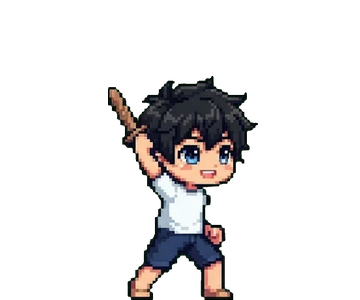
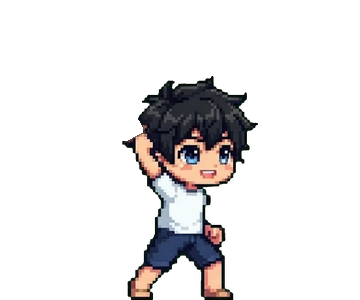
ภาพท่าตีร่างปกติใหม่: เอาไม้ที่ติดมือออก ให้เห็นแต่อาวุธที่สวมจริง
Claude-Session: https://claude.ai/code/session_01J9NCfWgs9eBq1qjdwjHxHL

Changed region(s): [[0.275, 0.27, 0.4278, 0.48]]

diff --git a/tools/remove_stick.py b/tools/remove_stick.py
@@ -1,0 +1,52 @@
+"""ลบไม้ที่ติดมือออกจากภาพท่าตีของร่างปกติ (ตอนนี้อาวุธวาดตามของที่สวม แทนไม้ในภาพ)
+ใช้ครั้งเดียวกับภาพเดิม: python3 tools/remove_stick.py (อ่าน/เขียน assets/art/frames ผลออกที่ /tmp/ns)
+"""
+import numpy as np, cv2
+from PIL import Image
+# เส้นไม้ (จุดเริ่มที่มือ -> ปลายไม้) ในพิกัดเฟรม 360x300
+LINES = {
+ 'hero': [((136,140),(104,80)), ((283,182),(356,181)), ((148,230),(208,292))],
+ 'heroine': [((132,120),(86,66)), ((288,196),(360,195)), ((184,234),(266,294))],
+}
+def seg_dist(p, a, b):
+    a=np.array(a,float); b=np.array(b,float); ab=b-a
+    t=np.clip(((p-a)@ab)/(ab@ab),0,1)
+    proj=a+t[...,None]*ab
+    return np.linalg.norm(p-proj,axis=-1), t
+for who, lines in LINES.items():
+    for i,(a,b) in enumerate(lines):
+        path=f'assets/art/frames/{who}_normal_attack_{i}.png'
+        im=np.asarray(Image.open(path).convert('RGBA')).copy()
+        H,W=im.shape[:2]
+        yy,xx=np.mgrid[0:H,0:W]
+        d,t=seg_dist(np.dstack([xx,yy]).astype(float),a,b)
+        r,g,bl=im[...,0].astype(int),im[...,1].astype(int),im[...,2].astype(int)
+        al=im[...,3]
+        brown=(r-bl>35)&(r>70)&(r<215)&(g<170)&(r-g>20)
+        dark=(r+g+bl<200)
+        skin=(r>200)&(g>150)&(bl>120)&(t<0.22)  # ผิวมือ (เฉพาะใกล้ด้ามจับ)
+        corridor=(d<13)&(t>0.04)
+        mask=corridor&(al>0)&(brown|dark)&~skin
+        mask=cv2.dilate(mask.astype(np.uint8),np.ones((3,3),np.uint8))>0
+        mask&=corridor
+        # ส่วนที่ยื่นออกนอกตัว (รอบ ๆ เป็นพื้นใส) -> ลบเป็นพื้นใส, ส่วนที่ทับตัว -> เติมสีจากรอบ ๆ
+        body=(al>0)&~mask
+        body_near=cv2.dilate(body.astype(np.uint8),np.ones((7,7),np.uint8))>0
+        inside=mask&cv2.erode(body_near.astype(np.uint8),np.ones((5,5),np.uint8)).astype(bool)
+        out=im.copy()
+        out[mask&~inside,3]=0
+        # เส้นขอบจาง ๆ ของไม้ที่เหลือ: ในแนวไม้ เก็บไว้เฉพาะเนื้อตัวจริง (ส่วนที่หนา) กับผิว (มือ)
+        core=cv2.morphologyEx(body.astype(np.uint8),cv2.MORPH_OPEN,np.ones((5,5),np.uint8))
+        core=cv2.dilate(core,np.ones((3,3),np.uint8)).astype(bool)
+        out[corridor&~core&~skin&~inside,3]=0
+        rgb=cv2.inpaint(np.ascontiguousarray(im[...,:3]),(inside.astype(np.uint8)*255),3,cv2.INPAINT_TELEA)
+        out[inside,:3]=rgb[inside]
+        # เศษชิ้นเล็กที่หลุดจากตัว ลบทิ้ง
+        n,lab,stats,_=cv2.connectedComponentsWithStats((out[...,3]>0).astype(np.uint8))
+        big=np.argmax(stats[1:,cv2.CC_STAT_AREA])+1
+        for k in range(1,n):
+            if k!=big and stats[k,cv2.CC_STAT_AREA]<400: out[lab==k,3]=0
+        Image.fromarray(out).save(f'/tmp/ns/{who}_normal_attack_{i}.png')
+        dbg=im.copy(); dbg[mask]=[255,0,0,255]; dbg[inside]=[255,255,0,255]
+        Image.fromarray(dbg).save(f'/tmp/ns/dbg_{who}_{i}.png')
+print('ok')

diff --git a/CLAUDE.md b/CLAUDE.md
@@ -14,7 +14,7 @@ Godot 4.7.2 GDScript game (web export, no threads). The owner does not code: exp
 - Critical hits: `Game.BASE_CRIT` 8% (+ tiger set). `Player._damage()` sets `Game.pending_crit`; `Game.hit_enemies()` plays `_crit_fx` (ring, burst, CRITICAL! text, shake, hit stop) and sets `Game.hit_is_crit` so damage numbers are big and orange.
 - Mobile / screen: `Hud._on_screen_resized()` switches the canvas to 720x1280 when the window is portrait (1280x720 landscape), moves the hotbar, bag and touch buttons (`TOUCH_LANDSCAPE` / `TOUCH_PORTRAIT`: run sits by the attack button, skill buttons show their name and cooldown, the bottom skill bar hides on touch) and calls `Player.apply_view()` (portrait camera puts the ground at ~62% height; `Stage` fills the area under the road with earth color). The Mali font has no ✕ or ♪: use × and the drawn `SpeakerIcon`. Check layouts with `xvfb-run godot --path . --resolution 720x1560 res://tests/touch_shot.tscn -- shots=<dir>`.
 - Title cover `assets/art/title.png` shows both heroes and the 12 zodiacs (มะโรง is a Thai พญานาค, id `naga` — the owner wants a naga, not a Chinese dragon); the whole cover is always shown (fit, with a darkened covered copy behind it) and the logo sits at its top-left (above it on portrait screens).
-- Held weapon: `ChibiVisual.weapon_icon` (set by `Player` from the equipped weapon's icon) draws the weapon icon in the hand during attack frames (`GRIPS`) and on the back otherwise. Only the normal form shows it (outfit `grip`); zodiac forms fight with paws (owner's choice). Check with `xvfb-run godot --path . res://tests/weapon_shot.tscn -- shots=<dir>`.
+- Held weapon: `ChibiVisual.weapon_icon` (set by `Player` from the equipped weapon's icon) draws the weapon icon in the hand during attack frames (`GRIPS`) and on the back otherwise. Only the normal form shows it (outfit `grip`; its attack frames had the baked wooden stick removed with `tools/remove_stick.py`); zodiac forms fight with paws (owner's choice). Check with `xvfb-run godot --path . res://tests/weapon_shot.tscn -- shots=<dir>`.
 - Boss skill telegraphs use `Fx` kind `warn`: a glowing ground circle that charges up (not a box).
 - Other art scripts: `tools/prep_misc.py` (house interior, title cover, equipment icons, rat still). `prep_frames.py`/`prep_monsters.py` take optional names to process only some sheets.
 - Backgrounds: village and field use 3 parallax layers (`layer_far.png`, `layer_<style>_mid.png`, `layer_<style>_near.png`, cut with `tools/prep_layers.py`) plus the road strip `ground_<style>.png`; the cave and the chief's house use single `bg_<style>.png` images.
